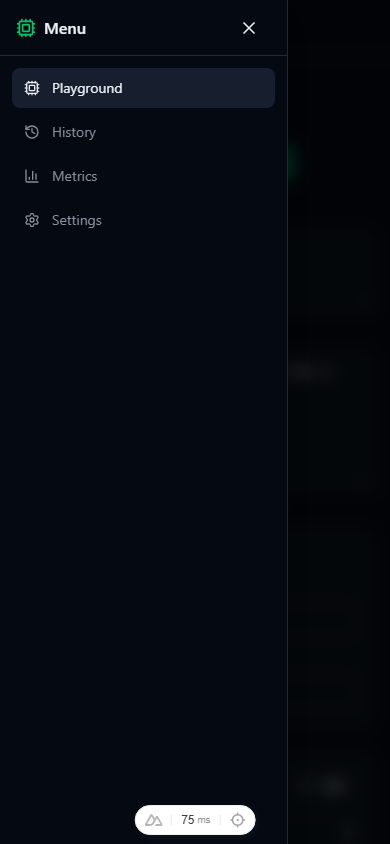
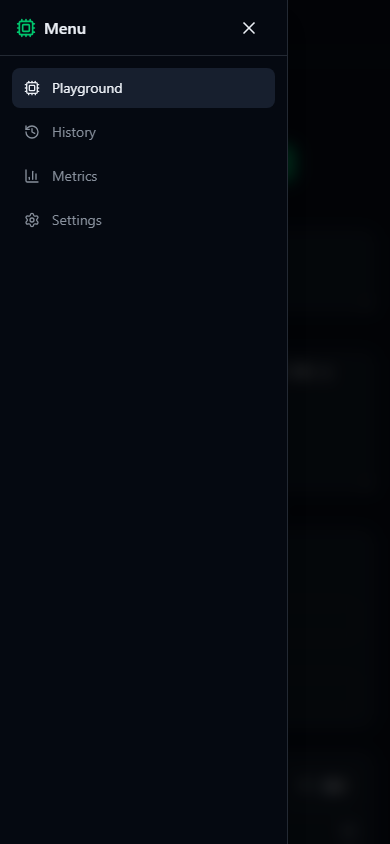
Improve README screenshots with 4 models and historical metrics.
Disable Nuxt DevTools during captures, seed four providers in demo data, and switch metrics view to Historical avg.

Changed region(s): [[0.3385, 0.955, 0.6769, 1.0]]

diff --git a/nuxt.config.ts b/nuxt.config.ts
@@ -5,7 +5,7 @@ const baseURL = process.env.NUXT_APP_BASE_URL || '/'
 
 export default defineNuxtConfig({
   compatibilityDate: '2025-07-15',
-  devtools: { enabled: true },
+  devtools: { enabled: process.env.NUXT_DEVTOOLS !== '0' },
 
   // Local-first app: state lives in localStorage/sessionStorage
   ssr: false,

diff --git a/README.md b/README.md
@@ -173,11 +173,20 @@ npm run test:watch   # Watch mode
 npm run screenshots  # Regenerate README screenshots (requires dev server)
 ```
 
-To refresh screenshots:
+To refresh screenshots (devtools badge hidden):
 
 ```bash
-npm run dev          # in one terminal
-npm run screenshots  # in another
+# Terminal 1 — disable Nuxt DevTools overlay
+NUXT_DEVTOOLS=0 npm run dev
+
+# Terminal 2
+npm run screenshots
+```
+
+On Windows PowerShell:
+
+```powershell
+$env:NUXT_DEVTOOLS='0'; npm run dev
 ```
 
 ## Security
